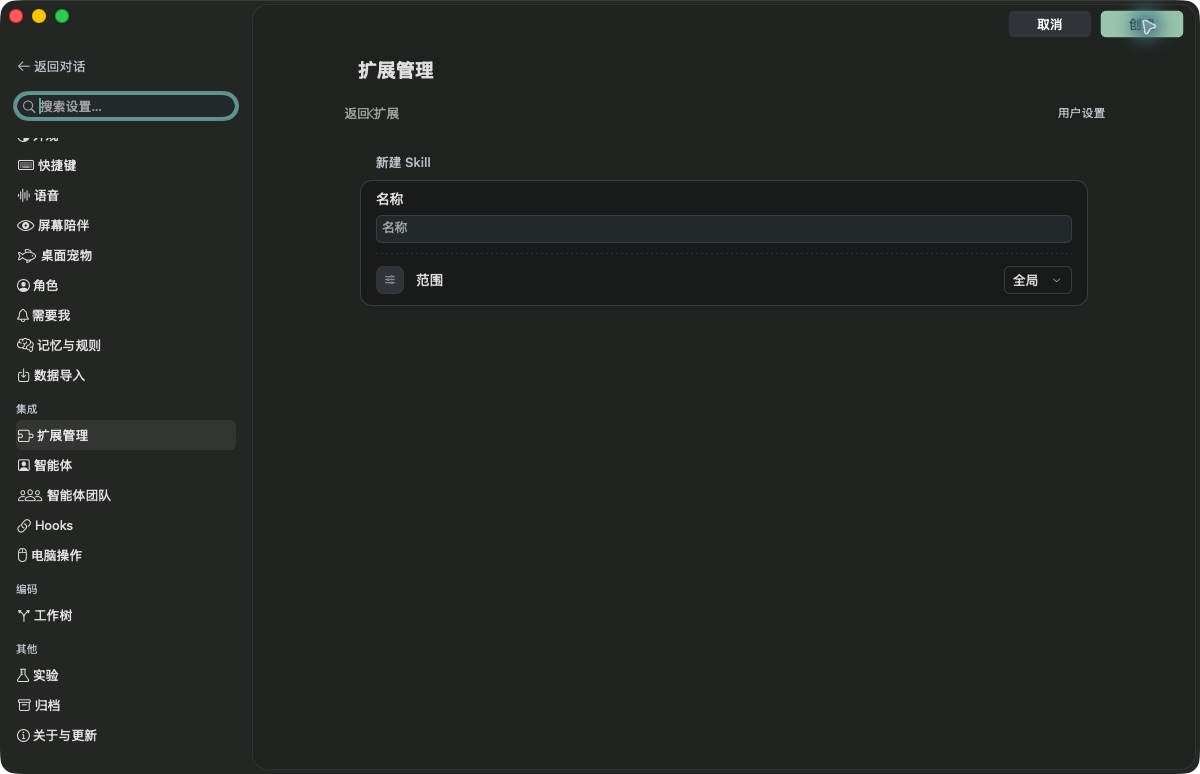
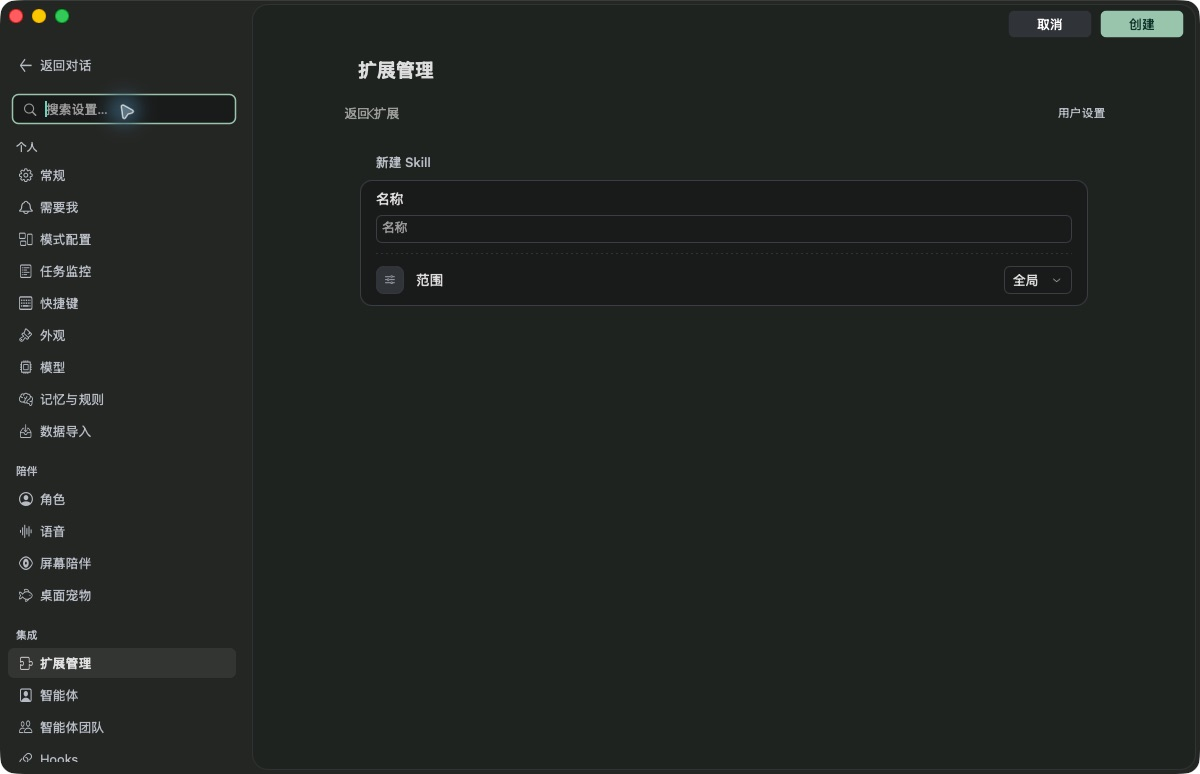
docs: record shared input and undo delivery

Changed region(s): [[0.0, 0.062, 0.2158, 0.8062], [0.0, 0.8062, 0.0925, 0.9922], [0.925, 0.0, 0.9867, 0.062]]

diff --git a/docs/QODER-PARITY-TODO.md b/docs/QODER-PARITY-TODO.md
@@ -1,19 +1,15 @@
 # Qoder 界面与功能 TODO
 
-更新日期：2026-11-17。对标 Qoder 桌面 Agent，保留小鲸品牌和原生 AppKit；完整 IDE 编辑器不在当前范围。
+更新日期：2026-11-18。对标 Qoder 桌面 Agent，保留小鲸品牌和原生 AppKit；完整 IDE 编辑器不在当前范围。
 
 ## 当前交付状态
 
 - **整体：25 类中 7 类已有功能性验收，18 类开放。** P0-09 七项整体视觉标准继续未完成。
-- **当前日用：**0.9.4，源码 `965d452`，2026-11-17 22:47（北京时间），正常进程 82774。关于及新侧栏已从正常入口核对，代码段／217 份资源与验收包一致，严格本地签名；已恢复原模型设置页。
-- **最近界面交付：**设置侧栏按个人／陪伴／集成／编码／其他整理，统一 30 pt 行高、图标与文字对齐、中性选中及键盘焦点；修复搜索后定位和取消未保存跳转的选择恢复。最终同包 **658 项**相关原生检查，**14 张**验收原图及 **2 张**日常原图；模型 0，正式 14 份资料字节与权限保持，旧版完整备份。[侧栏台账](P0-UI-ACCEPTANCE.md#2026-11-17-设置侧栏精修交付)
-- **主分支同期变更：**`b2b918e`／`5b03685` 共享输入框调整在本批侧栏包之后提交，不包含在上述日用或成绩中；不把主分支提交等同于已安装。
+- **当前日用：**0.9.4，源码 `8bfd492`，构建于 2026-11-17 23:55（北京时间），11 月 18 日完成更新；正常进程 99344。关于及实际表单已核对，代码段／217 份资源／4 份运行依赖与验收包一致，严格本地签名；已恢复原模型设置页。
+- **最近界面交付：**普通输入框采用主题卡片底色、6 pt 圆角、中性边框及清晰焦点，保留 AppKit 原生文字布局；智能体、团队与 MCP 普通字段复用。修复名称卡片的撤销／重做菜单未接入独立编辑器，原任务草稿保持。最终同包 **757 项**相关原生检查，**16 张**公开验收原图、**3 张**日常原图及 **1 张**改前原图。模型 0，正式 14 份资料字节与权限保持。[本批台账](P0-UI-ACCEPTANCE.md#2026-11-18-共享输入框与撤销入口交付)
+- **已合入日用：**保留 `965d452` 的设置侧栏精修，当前包包含共享输入框及撤销修复；旧版 228 份应用文件已完整备份。各批检查按二进制分别记录，旧候选成绩不累加。
 - **此前配置变更（本包保留）：**按用户要求将模型／语音 API Key 改存用户目录 `credentials.json` 明文文件（0600），普通设置不携带 Key，MCP／Hooks 保持原方式。23 项独立源码检查及本机 HTTP 鉴权通过；最终优化包三次实际窗口进程验证保存、重开、清除及再次重开，真实模型 0。原 14 份正式资料保持。**现有旧 Key 未自动迁移，需用户在已打开的模型页重新保存一次**；不宣称正式模型已连通。[配置存储交付](QODER-DELIVERY-HISTORY.md#2026-11-17-1751-api-key-配置存储1fa065d)
-- **后续重点：**其余页面、工作台及更多编辑／错误状态的整页观感；物理悬停、触控板与同内容差异页对照继续开放。本批不关闭 P0-09 原七项及其余业务闭环。
-
-此前需要我精修 `906a3f1` 的 48 项与实窗证据保留为该包成绩；当前包继承其布局，本轮不重复该整套检查。[需要我精修](P0-UI-ACCEPTANCE.md#2026-11-17-需要我页面精修交付)
-
-目录独立复验 `740a2fa` 的 383 项及 15 张有效流程原图，另一个目录包的 505 项，均按各自编译包保留，不累计为当前包成绩。[目录复验](P0-UI-ACCEPTANCE.md#2026-11-17-目录独立复验与同包更新)
+- **后续重点：**安全值输入框、模型组合框、其他页面与工作台的整页质感，以及更多编辑／错误／禁用状态；Skill 任务式创建、物理悬停／触控板和同内容差异对照继续开放。
 
 [历次交付与失败记录](QODER-DELIVERY-HISTORY.md) · [逐页验收台账](P0-UI-ACCEPTANCE.md) · [共同界面规范](QODER-UI-SPEC.md)
 
@@ -26,7 +22,7 @@
 | P0-03 | 页面承载与导航：长配置在原内容区逐级进入，短编辑和确认使用统一表单；返回保留范围、对象、草稿、滚动和焦点 | 完成当前界面范围：22 类页内承载及 MCP 详情、长正文、统一确认已验；`f27f6d8` 的后台 MCP 确认返回后直接输入也通过实窗复验。业务入口无原始 NSAlert；Wiki 独立缺陷仍在 P1-04 |
 | P0-04 | 保存及离开行为统一：即时保存和显式保存可识别；错误可读、可重试；失败保留输入；快捷键和按钮一致 | 完成当前覆盖并已安装：基础设置历史 64 项保护保留；首批 `c04023b` 修复只读 Skill 被原子替换和权限重设，该包 439 项包含六项新增保护；实际只读失败不改原件／权限，取消返回后直接原位置续写，恢复可写后保存完整草稿，Agent 无效输入保留和修正重试通过。当前包保留上述实现与原失败现场；第二批明确空名等错误，视觉统一继续归 P0-09 |
 | P0-05 | 冷标签显示正确名称、未保存点和关闭对象，失败保留原草稿，不必点击后才补上状态 | 完成并已安装：历史 258 项及实际窗口证据保留，此前 `34e369d` 的同一日常二进制 132 项工作区检查通过；本次修订消息标签另见 P1-03，不扩展为全类型恢复完成 |
-| P0-06 | 版本与交付可见：应用内显示版本、实际构建源码和时间；能定位当前应用和更新记录，清单同步安装状态 | 完成：关于与更新已从当前日常正常入口读回 `965d452`／2026-11-17 22:47／本地签名；两个入口为定位应用及 Git 提交历史，不宣称具备在线自动更新 |
+| P0-06 | 版本与交付可见：应用内显示版本、实际构建源码和时间；能定位当前应用和更新记录，清单同步安装状态 | 完成：关于与更新已从当前日常正常入口读回 `8bfd492`／2026-11-17 23:55／本地签名；两个入口为定位应用及 Git 提交历史，不宣称具备在线自动更新 |
 | P0-07 | 复杂内容及状态：空态、加载、错误、只读、冲突，长路径／JSON／代码／表格在明暗及窄窗口中可读可操作 | 完成当前界面覆盖：此前 `34e369d` 的 22 页正常深色／780×540 浅色实窗、122 项布局、282 项承载、30 项外观及工作区状态证据保留；更复杂实际文档／网站业务继续归 P1-08 |
 | P0-08 | 最终日常交付：同一源码与资源构建，正常／窄窗口、明暗、键盘、未保存保护、重开；安装后逐页核对实际入口并保留可回退旧版 | 安装与重开完成：源码／资源／签名／运行路径／原资料／旧版备份均已核对。**仅物理触控板连续手势及惯性待人工实机补验**，自动滚轮不作替代 |
 | P0-09 | 视觉质感精修：统一密度、内容宽度、字体与图标层级、背景层次、控件比例和页面模板，逐页与 Qoder 实机对照 | **未完成，优先处理。** 用户已反馈现有质感不协调；具体范围与视觉验收见下节，原生检查通过及已安装均不能替代此项 |
@@ -77,9 +73,11 @@ Git 主审阅已随 `0635cf4`、推送／远端／工作树操作控件及单行
 
 设置侧栏精修已随 `965d452` 安装，分类、间距、图标和选中态本批范围完成；具体实窗、数据保留与失败记录见[侧栏台账](P0-UI-ACCEPTANCE.md#2026-11-17-设置侧栏精修交付)。默认系统 Tab、物理悬停及触控板仍有未验范围，不据此勾选整体视觉标准。
 
+2026-11-18 共享输入框与撤销入口交付已随 `8bfd492` 安装：普通输入框采用主题卡片底色、6 pt 圆角、中性边框及清晰焦点，保留 AppKit 原生文字布局；智能体、团队与 MCP 普通字段复用。修复名称卡片的撤销／重做菜单未接入独立编辑器，原任务草稿保持。最终同包 757 项、16 张公开窗口原图及 3 张日常原图，0 模型请求；已保留改前图和旧版完整备份。[本批台账](P0-UI-ACCEPTANCE.md#2026-11-18-共享输入框与撤销入口交付)。安全字段、模型组合框及其他整页质感仍开放，不关闭原七项。
+
 当前仍需继续精修的差异如下；这些属于同一 P0-09，不另计完成数量：
 
-- 本批设置短表单已统一卡片、选择器与顶栏操作；深色输入框的原生填充仍与 Qoder 有差异。Skill 创建仍为本地表单，Qoder 为任务式创建，两项继续开放。
+- 普通单行字段的主题填充、边框与焦点已统一；安全值输入框、模型组合框及更多输入控件仍需精修。Skill 创建仍为本地表单，Qoder 为任务式创建，流程差异继续开放。
 - 六类短交互、代码安全／依赖漏洞报告、Git 主审阅及推送／工作树控件、共享与推送补丁阅读、保存失败反馈与只读规则保护，以及五类目录的本批精修已交付；继续其他列表／详情、复杂内容、差异更多业务状态及同内容对照。目录搜索宽度及空提示裁切、来源分组与卡片空态已修复并安装；顶栏创建与空态比例的代表性流程已补齐；更多内容长度／来源／错误组合继续核对。
 - 首页布局、最小窗口截断及模式／审批单箭头入口已交付；任务状态及其他工作台细节、更多业务状态继续逐项对照。
 - 补齐更多有内容、编辑、错误、禁用和焦点组合的明暗／窄窗对照；不把代表性流程扩展成全部状态通过。
@@ -88,7 +86,7 @@ Git 主审阅已随 `0635cf4`、推送／远端／工作树操作控件及单行
 
 ## 已实现的能力与仍需补齐的部分
 
-下表去除了重复的父子勾选。已实现部分有历史验收记录；当前日常源码为 `3e4c9c1`，此前设置逐类验收保留。不把功能源码进入日常包解释为 P1 全业务闭环通过。
+下表去除了重复的父子勾选。已实现部分有历史验收记录；当前日常源码为 `8bfd492`，此前设置逐类验收保留。不把功能源码进入日常包解释为 P1 全业务闭环通过。
 
 | 模块 | 已实现并有证据的部分 | 剩余工作 |
 | --- | --- | --- |

diff --git a/README.md b/README.md
@@ -27,7 +27,7 @@
 
 ## 先让她住到桌面上
 
-已构建的 `.app` 可以直接运行。源码构建需要 Node.js/npm 和含 Swift 6.1 及以上的 Xcode 工具链；日常安装包还需要本机有效的 Apple Development 或 Developer ID Application 签名证书。
+已构建的 `.app` 可以直接运行。源码构建需要 Node.js/npm 和含 Swift 6.1 及以上的 Xcode 工具链；默认使用本地签名，不需要解锁钥匙串；需要个人证书签名时，可另行指定 Apple Development 或 Developer ID Application 证书。
 
 ```sh
 npm ci
@@ -36,7 +36,7 @@ npm run native:build
 
 默认的 `npm run native:build` 用于开发验收，无需证书私钥或解锁钥匙串；`npm run native:build-check` 保留同样行为。它生成独立标识与 `BlueFatFishAcceptanceOnly=true` 的本地签名应用，输出在本次 `build/native-staging-*` 目录，不安装到日常入口。启动时必须指定独立目录：`open -n /绝对路径/蓝色大肥鱼验收.app --args --check /绝对路径/独立验收目录 --manual-ui`；直接打开会退出，不读取日常资料。已有独立验收包仍可用 `npm run native:sign-check -- /绝对路径/独立验收.app` 签名；它仅接受 `BlueFatFishAcceptanceOnly=true` 与独立 `com.xjs.bluefatfish.*` 标识，拒绝日常包。
 
-更新日常应用时显式运行 `npm run native:release`。正式构建先放在独立的 `build/native-staging-*` 目录，完整签名检查通过、证书与原应用一致且应用文件未被使用时，才替换 `build/蓝色大肥鱼.app`；旧版保留在候选目录中的 `previous-*`。构建或签名失败会保留现有应用。应用尚未退出时，可正常退出后用 `npm run native:install -- /绝对路径/正式候选.app` 安装已签名候选。有多个有效证书时，通过 `BLUEFATFISH_SIGN_IDENTITY` 指定证书名称或 SHA-1；日常包不会退回临时签名。`npm run native:open` 打开已安装的日常包，不打开开发验收包。
+更新日常应用时显式运行 `npm run native:release`。候选先放在独立的 `build/native-staging-*` 目录，完整签名检查通过且旧应用退出后才替换 `build/蓝色大肥鱼.app`；旧版保留在候选目录中的 `previous-*`。构建或签名失败会保留现有应用。默认本地签名，无需个人钥匙串；已有本地签名候选可用 `npm run native:install -- --local /绝对路径/正式候选.app` 安装。需要个人证书时才设置 `BLUEFATFISH_SIGN_IDENTITY`；`npm run native:open` 打开已安装的日常包。
 
 首次构建会下载固定版本的 sherpa-onnx 原生库和唤醒模型，并校验 SHA-256；MCP 使用固定版本的官方 Swift SDK，传递依赖由 `native-mcp/Package.resolved` 固定。应用运行不再下载这些库。当前角色素材、动画和示例音频已在仓库中，无需调用 Tripo 或重新生成。
 
@@ -84,13 +84,13 @@ npm run dev
 
 ⌘G 打开快速任务切换，可按任务名或工作区筛选未归档任务，跨「编程／通用」选择，用上下键预选、回车打开、Esc 取消。⌘B 或顶部侧栏按钮收起／展开当前窗口的左侧栏；收起后按 ⌘K 搜索会重新展开。两项都可在「设置 → 快捷键」修改、清除或恢复默认，各窗口独立切换任务和侧栏。
 
-设置按「个人、集成、编码、其他」分组，搜索可直接进入连接器等具体页面。插件、Skills、指令、MCP、Hooks、智能体、团队、记忆与规则在居中的右侧内容列中查看、编辑和保存；子配置在页内进入与返回。Hooks 按事件分组，显示实际处理器数量、来源和启用状态。未保存的配置会在离开前提示，返回对话保留任务草稿，小窗口可滚动查看。
+设置按「个人、陪伴、集成、编码、其他」分组，搜索可直接进入连接器等具体页面。插件、Skills、指令、MCP、Hooks、智能体、团队、记忆与规则在居中的右侧内容列中查看、编辑和保存；子配置在页内进入与返回。Hooks 按事件分组，显示实际处理器数量、来源和启用状态。未保存的配置会在离开前提示，返回对话保留任务草稿，小窗口可滚动查看。
 
-「设置 → 外观」可选择跟随系统、浅色或深色，以及 12／14／16／18 号对话字体，即时保存并更新已打开的窗口。设置侧栏的返回与搜索固定在顶部；插件启用配置支持 ⌘S，并分别保存用户、项目和本机范围。目录的创建／导入及新建 Skill／指令、工具规则的原操作位于窗口右上，详情沿右侧逐级进入；卡片空态、森林明暗层次与保存保护已接入日常版。当前安装版本和完整差距见 [Qoder TODO](docs/QODER-PARITY-TODO.md)。
+「设置 → 外观」可选择跟随系统、浅色或深色，以及 12／14／16／18 号对话字体，即时保存并更新已打开的窗口。设置侧栏的返回与搜索固定在顶部；插件启用配置支持 ⌘S，并分别保存用户、项目和本机范围。目录的创建／导入及新建 Skill／指令、工具规则的原操作位于窗口右上，详情沿右侧逐级进入；卡片空态、森林明暗层次与保存保护已接入日常版。普通字段已统一主题底色、边框与焦点，名称卡片支持独立撤销和重做；安全字段与模型组合框仍需精修。当前安装版本和完整差距见 [Qoder TODO](docs/QODER-PARITY-TODO.md)。
 
 <img src="docs/media/settings-catalog-dark.jpg" width="900" alt="日常应用实际窗口：目录操作位于窗口右上，空态与森林深色分层；原用户设置保持">
 
-<img src="docs/media/settings-form-controls.jpg" width="900" alt="实际设置短表单：分组字段、共享选择器和右上角取消与主操作">
+<img src="docs/media/settings-form-controls.jpg" width="900" alt="日常应用实际设置表单：统一主题输入框、分组字段及右上角取消与主操作">
 
 <img src="docs/media/settings-appearance-dark.jpg" width="900" alt="实际深色验收窗口：固定设置侧栏、居中内容列与 Hooks 事件分组">
 

diff --git a/docs/P0-UI-ACCEPTANCE.md b/docs/P0-UI-ACCEPTANCE.md
@@ -1,5 +1,17 @@
 # P0 逐页界面验收台账
 
+## 2026-11-18 共享输入框与撤销入口交付
+
+本批日用源码 `8bfd4928bc9b32c49f2399a385cbb11939d35d32`，0.9.4，构建于 **2026-11-17 23:55（北京时间）**，11 月 18 日完成安装；正常进程 **99344** 无验收参数。完整索引 `evidence/agent/settings-field-surfaces-c7n4r2p8/acceptance-index.json`。代码段、**217** 份资源与 **4** 份依赖和最终验收包一致，严格本地签名，不需解锁钥匙串；`965d452` 旧包 **228** 份文件及权限完整备份，已交付侧栏原实现包含在当前包中。
+
+- 普通输入框采用主题卡片底色、6 pt 圆角、中性边框及清晰焦点，保留 AppKit 原生文字布局；智能体、团队与 MCP 普通字段复用。修复名称卡片的撤销／重做菜单未接入独立编辑器，原任务草稿保持。原安全值字段类型、存储、权限与模型设置不变，没有新增依赖。
+- 最终同一优化包通过 **757 项**相关原生检查：设置 **402**、布局 **189**、主题 **75**、名称编辑 **56**、官方 MCP 输入 **35**。主题检查包含八种配色／明暗组合的实际填充像素与原生文字位置；名称检查通过应用菜单派发撤销／重做，保持独立草稿。旧候选 753 项和开发绘制探针单独保留，不累计。
+- 实窗 **113 次调用／226 条原记录／16 张原图**：1320×800 深色名称卡片的粘贴、撤销／重做、空名错误和取消；深色 Skill 重名、继续编辑／放弃、Agent 空名及团队焦点；浅色 MCP 参数、动态环境变量名称、原安全值控件与取消。780×540 重开同一资料，检查深色 Agent 长表单、浅色团队焦点、MCP 长路径和底部超时字段；独立无工作区深色 Skill 范围保持禁用。代表性组合不扩大为全部主题与状态通过。
+- 同一设置资料 **18 份**配置／源文件／任务及索引在宽、窄、退出后均字节与权限保持；无工作区 **2 份**任务及索引也保持。Git 窄窗验证提交说明粘贴／撤销、修订 HEAD 比较与恢复原来源，仓库 HEAD、暂存区、状态及工作文件保持，原任务标题／正文／草稿保持。切换审阅来源会保存新的审阅快照，任务及索引发生写入；严格字节断言失败保留在 `git-fields-after.json`，不称所有任务文件字节不变。
+- 日常正常入口另保留 **3 张原图**，读回版本、源码、时间及本地签名；同一正式资料的改前图 **1 张**。最终对照同为 1200×774、森林深色、空白 Skill 表单、搜索焦点及侧栏顶部，原字节直接复制到 `docs/media/settings-form-controls.jpg`。取消后原 **28 项**技能目录保持，已恢复模型页及 8192／512；正式 **14 份**文件字节与权限不变，模型请求 **0**。
+- 首候选的直接撤销检查通过，但实际改名窗口的菜单／快捷键未接入独立编辑器；原失败、10 张过程图与验收误操作记录完整保留。误操作只涉及本批独立样例，标题和草稿已由实际界面恢复，未把其任务及索引字节变化改写为通过。最终修复复验另用独立资料。首次日常启动观察超时后，以访达打开事件显示同一 PID 99344，没有重启。
+- 参考沿用上一批已记录、按授权恢复外观并退出的固定 Qoder **0.5.2** 实机规范，本批不增加 Qoder 截图成绩。安全值输入、模型组合框、其他页面动作位置和层次、Skill 任务式创建、物理悬停／触控板及全部七项 P0-09 标准继续开放；整体仍为 **7 类有功能性验收、18 类开放**。
+
 ## 2026-11-17 设置侧栏精修交付
 
 当前本批日用源码 `965d4522b70b1418f53d43e843813165ec6fa23d`，0.9.4，22:47（北京时间），正常进程 **82774** 无验收参数。完整索引 `evidence/agent/settings-sidebar-7ltpvx_z/acceptance-index.json`；正式包与最终验收包代码段及 **217** 份资源一致，严格本地签名通过，无需解锁钥匙串。主分支随后新增的 `b2b918e`／`5b03685` 输入框调整不包含在本批日用和成绩中，继续独立跟踪。

diff --git a/docs/AGENT-PLAN.md b/docs/AGENT-PLAN.md
@@ -6,7 +6,9 @@
 
 对标来源（2026-11-06 核对）：[桌面版功能](https://docs.qoder.com/qoder/overview)、[任务管理](https://docs.qoder.com/qoder/task-management)、[执行监控](https://docs.qoder.com/qoder/task-monitor)、[审批与隔离](https://docs.qoder.com/qoder/approval-and-sandbox)、[扩展](https://docs.qoder.com/qoder/connectors)。用户前面的界面参考作为布局依据；用户已确认对标桌面 Agent，完整 IDE 编辑器不纳入范围。
 
-2026-11-17 设置短表单与顶栏操作已随 `3e4c9c1` 更新当前日用，0.9.4，22:07（北京时间），正常进程 71864。新建 Skill／指令与 MCP 工具规则复用分组卡片、描边字段、单箭头选择器和主题主次按钮；原取消及创建／应用操作移至设置页右上，返回恢复原目录操作，独立承载仍保留就近按钮。最终同一优化包通过 **573 项**相关原生检查（设置 402、布局 171），实际窗口 **8 张**公开原图；正常日用另有 **2 张**。模型 0，正式 14 份资料字节与权限保持。整体仍为 25 类中 7 类已有功能性验收、18 类开放，P0-09 原七项及物理触控板仍未完成。Qoder 的 Skill 创建进入新任务，本应用本批仍为本地创建表单；流程差异继续开放。 索引 `evidence/agent/settings-form-controls-m8q2v6r4/acceptance-index.json`。
+2026-11-18 共享输入框与撤销入口已随 `8bfd492` 更新日用，0.9.4，构建于 11 月 17 日 23:55（北京时间），正常进程 99344。普通输入框采用主题卡片底色、6 pt 圆角、中性边框及清晰焦点，保留 AppKit 原生文字布局；智能体、团队与 MCP 普通字段复用。修复名称卡片的撤销／重做菜单未接入独立编辑器，原任务草稿保持。保留已交付侧栏；最终同包 757 项、16 张公开实窗原图、3 张日常原图及 1 张改前原图，模型 0。正式 14 份资料保持，旧版 228 份应用文件完整备份，已恢复原模型页。安全字段、模型组合框及其余视觉／业务范围仍开放，整体 7 类已有功能性验收、18 类开放，P0-09 原七项及物理触控板未完成。索引 `evidence/agent/settings-field-surfaces-c7n4r2p8/acceptance-index.json`。
+
+2026-11-17 设置短表单与顶栏操作此前随 `3e4c9c1` 更新当时日用，0.9.4，22:07（北京时间），正常进程 71864。新建 Skill／指令与 MCP 工具规则复用分组卡片、描边字段、单箭头选择器和主题主次按钮；原取消及创建／应用操作移至设置页右上，返回恢复原目录操作，独立承载仍保留就近按钮。最终同一优化包通过 **573 项**相关原生检查（设置 402、布局 171），实际窗口 **8 张**公开原图；正常日用另有 **2 张**。模型 0，正式 14 份资料字节与权限保持。整体仍为 25 类中 7 类已有功能性验收、18 类开放，P0-09 原七项及物理触控板仍未完成。Qoder 的 Skill 创建进入新任务，本应用本批仍为本地创建表单；流程差异继续开放。 索引 `evidence/agent/settings-form-controls-m8q2v6r4/acceptance-index.json`。
 
 2026-11-17 目录顶栏与主题交付曾随 `bbb4965` 更新当时日用，0.9.4，20:58（北京时间），正常进程 53045。目录创建／导入移至窗口右上，详情、搜索及其他页面隐藏，返回恢复原按钮与目标；空态采用 64 pt 原生线框插图、16 pt 必要文字及 154 pt 卡片。森林主题分开侧栏、页面与卡片，新建表单统一底色，无工作区的项目范围保持禁用。最终同一优化包通过 **629 项**相关原生检查（设置 399、布局 171、主题 59），实际窗口 **17 张**公开原图；正常日用另有 **2 张**。模型 0，正式 14 份资料字节与权限保持。 本批只覆盖目录顶栏、空态比例及森林层次的代表性流程；其余页面更多状态、物理悬停／连续触控板及同内容差异页继续开放。整体仍为 25 类中 7 类已有功能性验收、18 类开放，P0-09 原七项未勾选。 索引 `evidence/agent/settings-window-chrome-v6r2m4n8/acceptance-index.json`。
 

diff --git a/docs/QODER-DELIVERY-HISTORY.md b/docs/QODER-DELIVERY-HISTORY.md
@@ -2,6 +2,12 @@
 
 以下保留原 TODO 的交付记录。当前日用版本、完成范围和未完成项目见 [TODO](QODER-PARITY-TODO.md)，逐页证据见 [验收台账](P0-UI-ACCEPTANCE.md)。
 
+## 2026-11-18 共享输入框与撤销入口（8bfd492，构建 11 月 17 日 23:55）
+
+普通输入框采用主题卡片底色、6 pt 圆角、中性边框及清晰焦点，保留 AppKit 原生文字布局；智能体、团队与 MCP 普通字段复用。修复名称卡片的撤销／重做菜单未接入独立编辑器，原任务草稿保持。最终同包 **757 项**相关检查，**16 张**公开验收原图、**3 张**日常原图和 **1 张**改前原图，模型 0；正式 14 份文件字节与权限保持。正常进程 99344 已读回版本与实际表单，并恢复原模型页；旧 `965d452` 的 228 份应用文件完整备份，其侧栏实现已合入当前包。
+
+首候选的实际撤销失败和独立样例误操作、Git 审阅快照更新导致的严格任务字节断言失败，以及首次日常启动观察超时均保留，不累计旧包成绩或抹去数据变化。安全字段、模型组合框、Skill 任务式创建及其他视觉／业务边界继续开放，P0-09 原七项与物理触控板未完成。[本批台账](P0-UI-ACCEPTANCE.md#2026-11-18-共享输入框与撤销入口交付)；索引 `evidence/agent/settings-field-surfaces-c7n4r2p8/acceptance-index.json`。
+
 ## 2026-11-17 设置侧栏精修（965d452，构建 22:47）
 
 22 类设置按个人／陪伴／集成／编码／其他整理，统一行高、间距、图标、选中及键盘焦点；修复筛选定位与取消未保存跳转的选中恢复。最终同包 **658 项**相关检查，**14 张**公开验收原图及 **2 张**日常原图，模型 0；正式 14 份文件字节与权限保持。正常日用进程 82774 已读回源码／时间／本地签名并恢复模型设置页，旧 `3e4c9c1` 完整备份。Qoder 0.5.2 同尺寸浅色参考保留；历史失败与旧候选不累计。之后的 `b2b918e`／`5b03685` 输入框调整不计本批日用。P0-09 原七项与物理触控板继续开放。[本批台账](P0-UI-ACCEPTANCE.md#2026-11-17-设置侧栏精修交付)；索引 `evidence/agent/settings-sidebar-7ltpvx_z/acceptance-index.json`。

diff --git a/docs/QODER-UI-SPEC.md b/docs/QODER-UI-SPEC.md
@@ -1,6 +1,6 @@
 # 小鲸界面规范：Qoder Agent 对标
 
-更新日期：2026-11-17。参考固定为本机 Qoder 0.5.2 的实际窗口；保留小鲸品牌、用户选定的 A 任务工作台、AppKit 及已实现的主题。对标范围是桌面 Agent，完整 IDE 编辑器不纳入当前范围。
+更新日期：2026-11-18。参考固定为本机 Qoder 0.5.2 的实际窗口；保留小鲸品牌、用户选定的 A 任务工作台、AppKit 及已实现的主题。对标范围是桌面 Agent，完整 IDE 编辑器不纳入当前范围。
 
 本文件规定后续页面的共同标准。逐页实现、窗口验收与日常发布状态以 [Qoder TODO](QODER-PARITY-TODO.md) 为准。
 
@@ -46,6 +46,8 @@
 ### 设置短表单
 
 Skill／指令创建与 MCP 工具规则沿设置右侧进入，字段按用途分组；名称和工具名使用描边输入框与 14 pt 标签，选择器复用 28 pt 单箭头框，取消及主题主操作复用 28 pt 共用按钮并位于窗口右上。独立承载保留紧随错误状态的页内操作，不把按钮推到空白页底部。输入焦点、原选择、错误与 ⌘S 保持；无工作区的项目范围禁用。当前代表性流程已随 `3e4c9c1` 安装，Qoder Skill 的任务式创建流程差异仍开放。
+
+采用 `AgentDialogTextField` 的普通单行字段统一主题卡片填充、6 pt 圆角、1 pt 中性边框及 1.5 pt 焦点；13 pt 文字继续由 AppKit 绘制和编辑，不改变原生文字位置。智能体、团队、MCP 普通字段与动态行复用；安全值字段和模型组合框仍需后续精修。窗口内短卡片使用独立字段编辑器，撤销／重做菜单和 ⌘Z／⇧⌘Z 只作用于该卡片，关闭后保留原任务草稿。`8bfd492` 的同包检查、实窗与日常更新见 [本批台账](P0-UI-ACCEPTANCE.md#2026-11-18-共享输入框与撤销入口交付)。
 
 ### 需要我列表与详情
 
